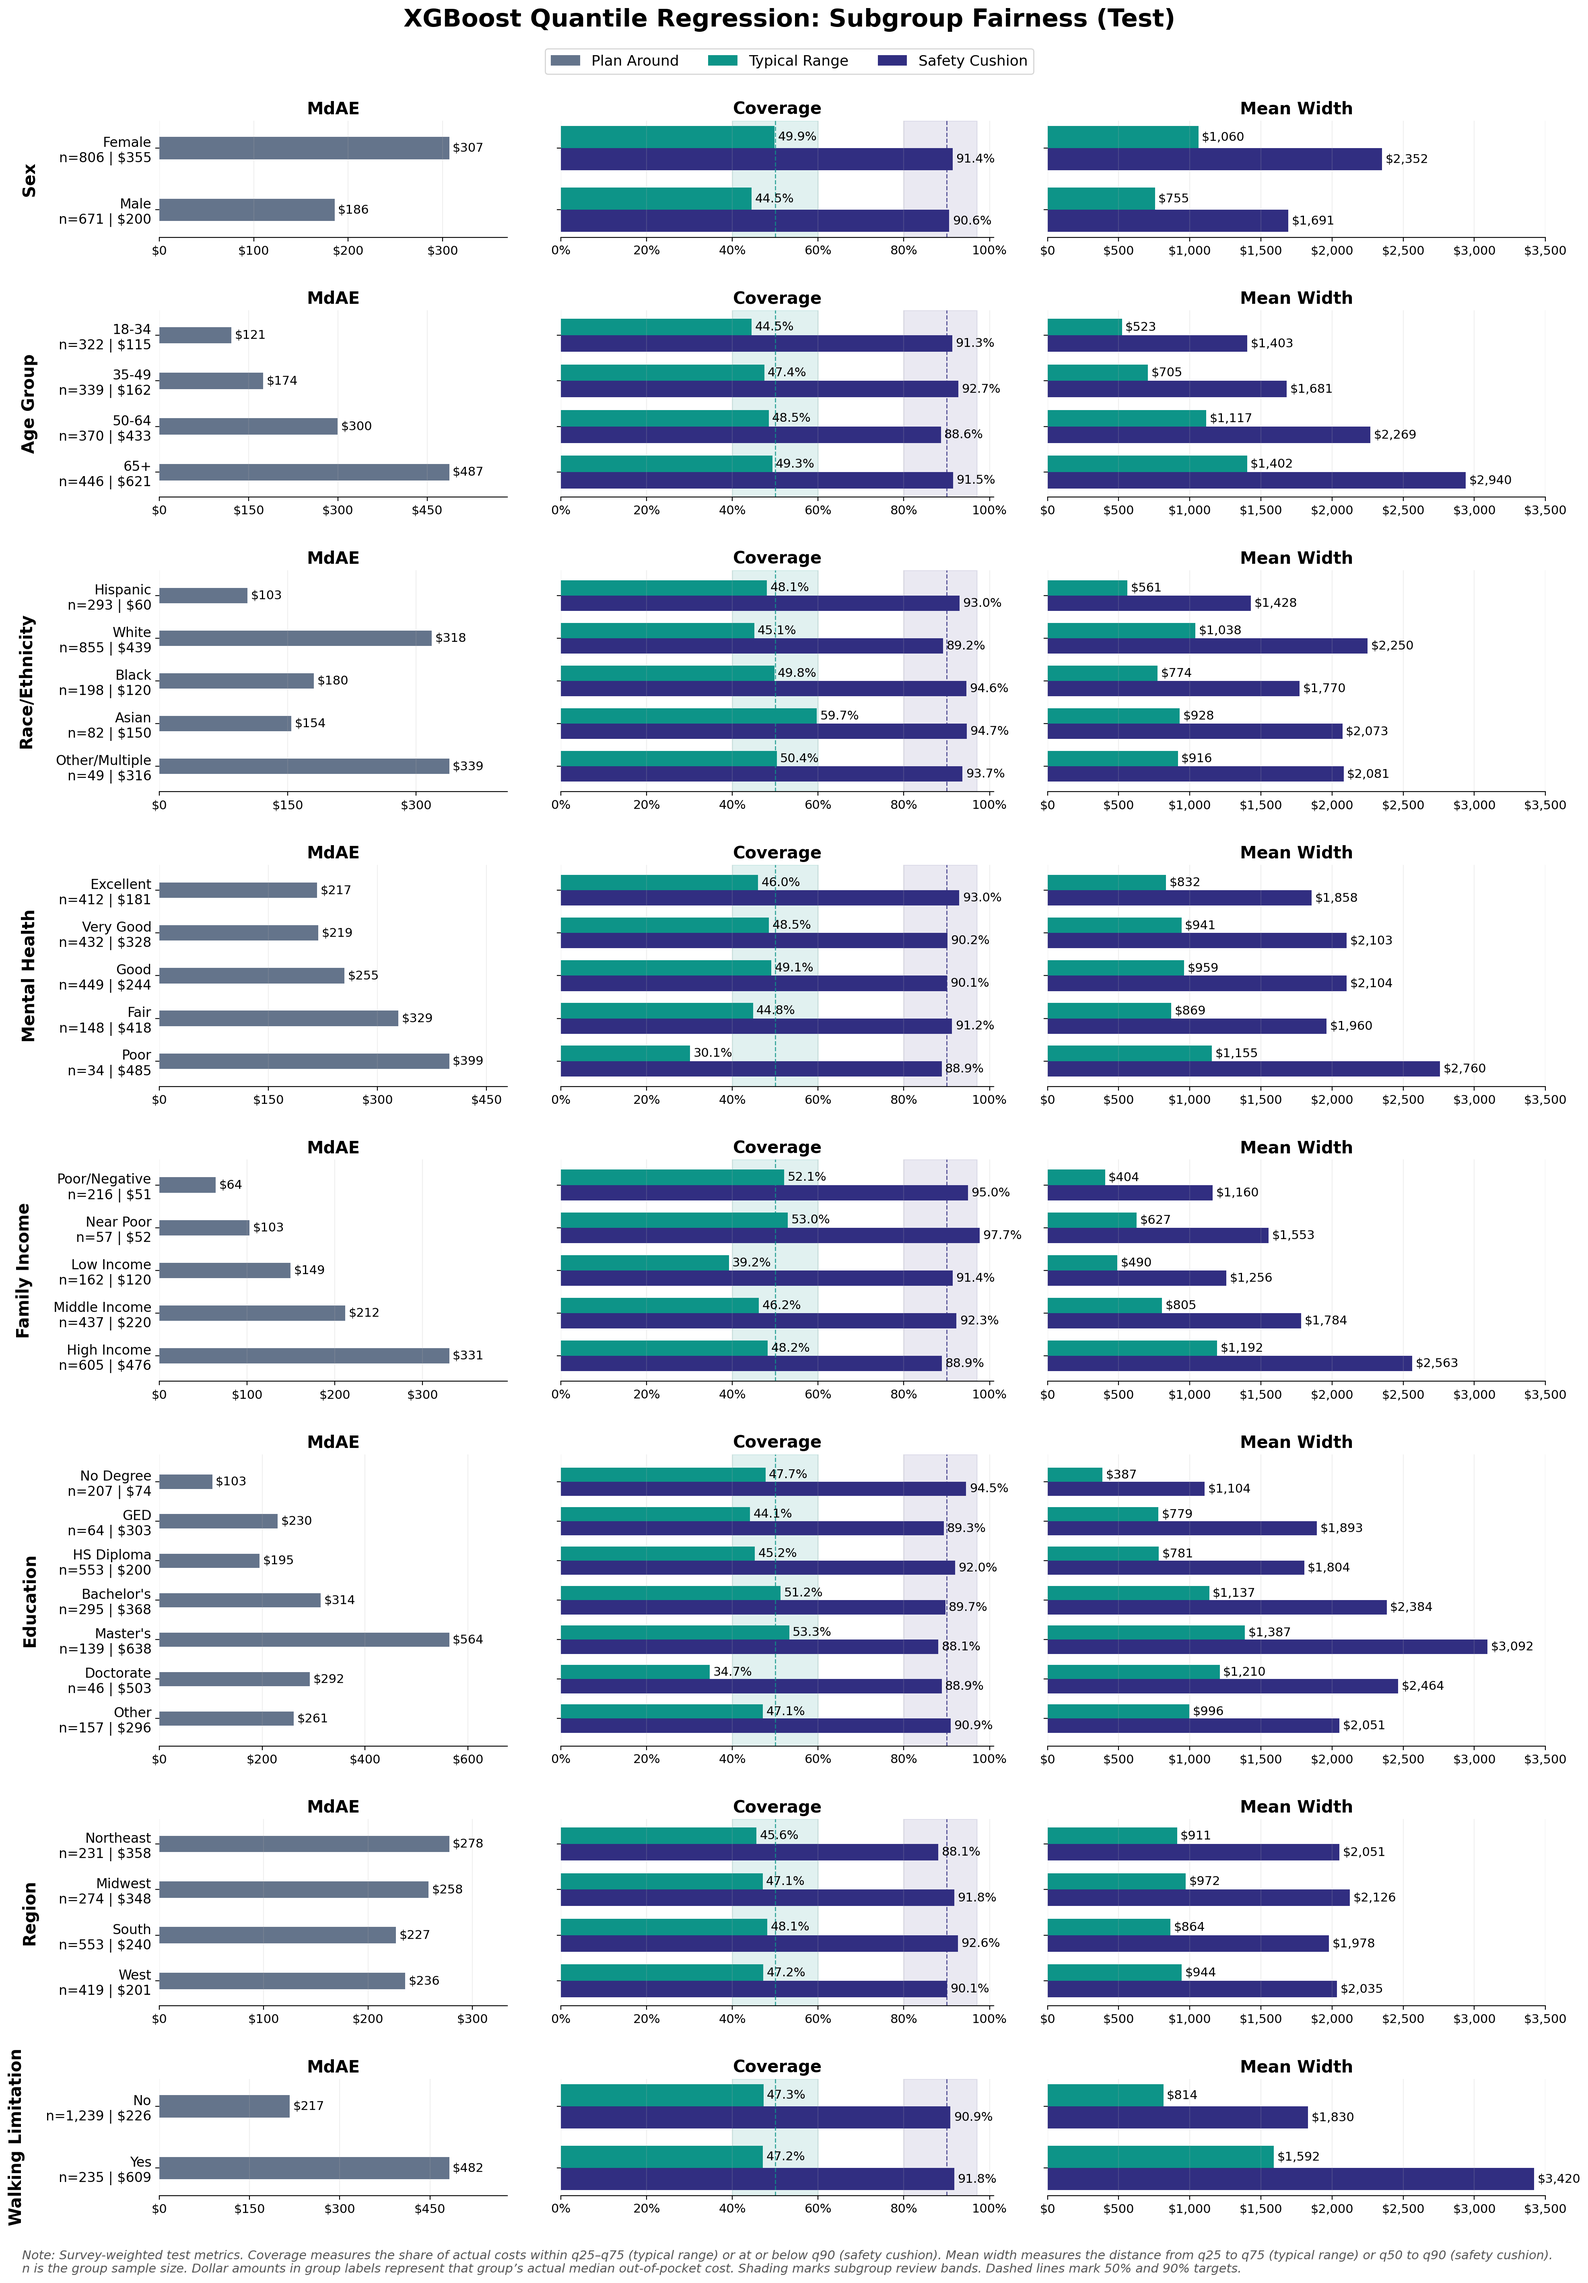
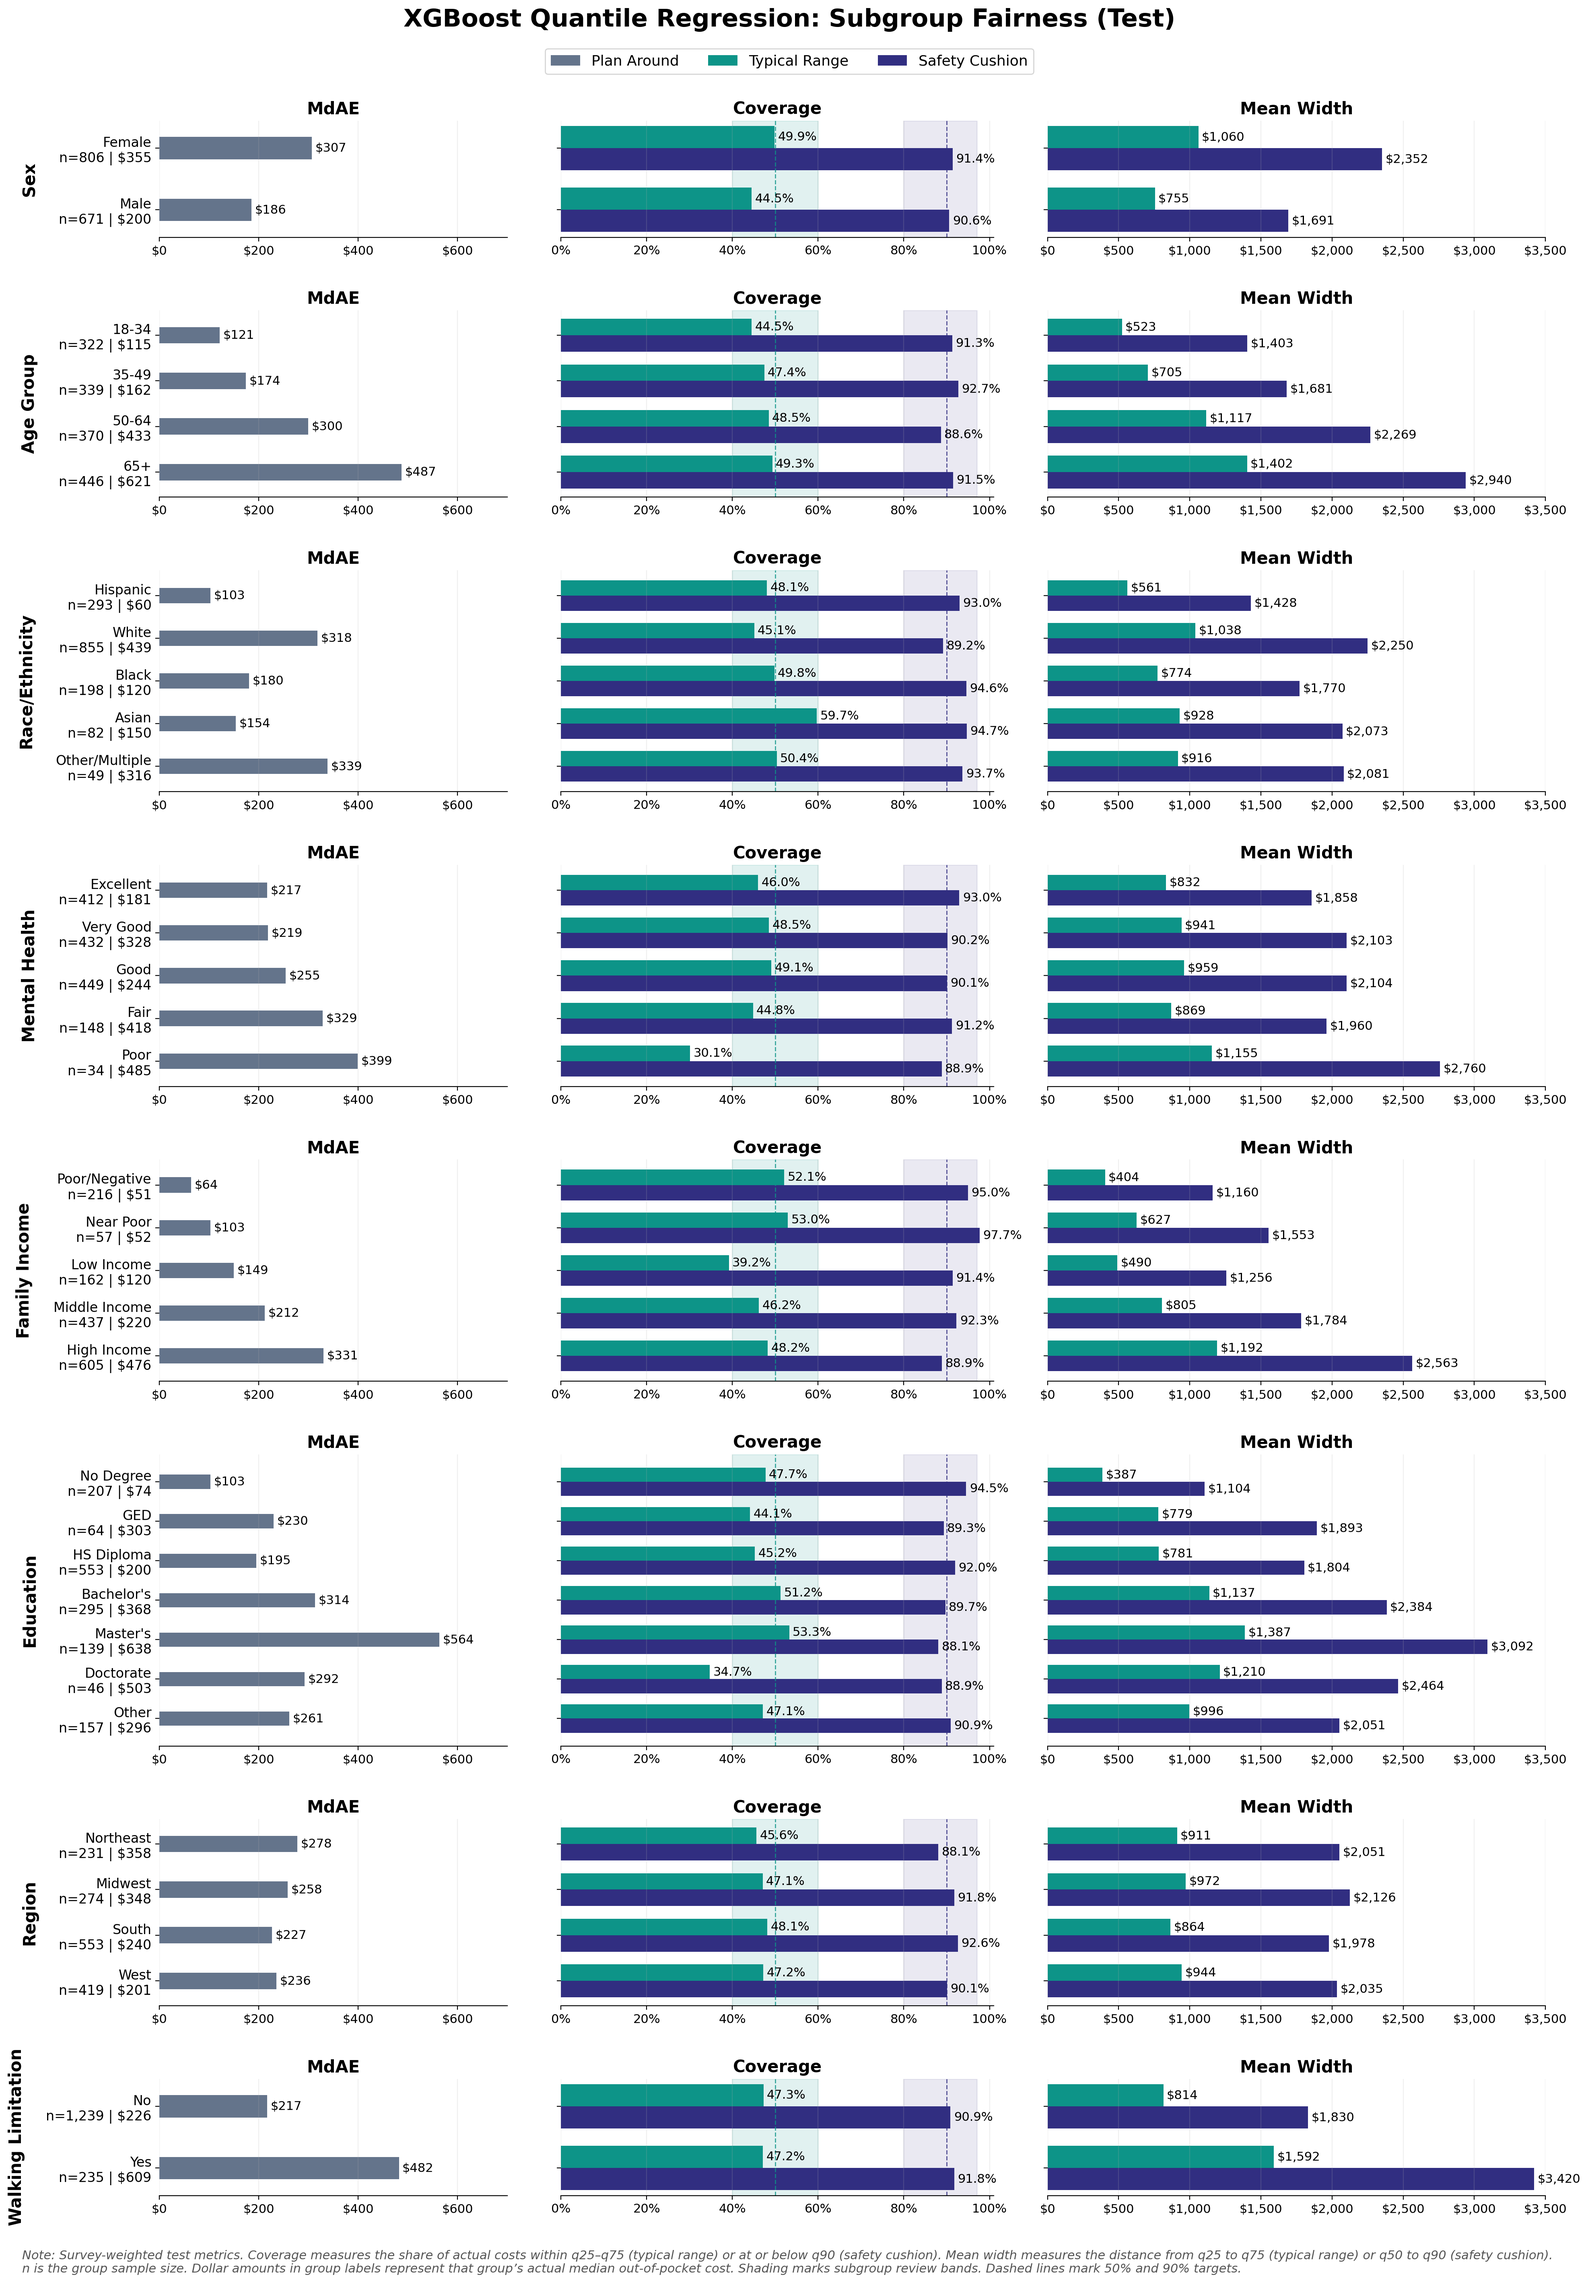
fix(eval): align final model subgroup plot MdAE axes

diff --git a/notebooks/2_modeling.py b/notebooks/2_modeling.py
@@ -2552,7 +2552,8 @@ def plot_quantile_subgroup_performance(
 
     Each subplot row is one stratification column. Coverage and mean width panels
     show the typical range and safety cushion. An optional first panel shows
-    plan-around median absolute error (q50). All metrics use survey weights.
+    plan-around median absolute error (q50), with a shared scale except for
+    actual cost tiers, which use a wider scale. All metrics use survey weights.
 
     Args:
         df (pd.DataFrame): Stratified error analysis dataframe of quantile regression.
@@ -2568,6 +2569,11 @@ def plot_quantile_subgroup_performance(
     legend_gap_inches = 0.15
     max_width = plot_data[["Typical Range Mean Width (q25–q75)", "Safety Cushion Mean Width (q50–q90)"]].max().max()
     width_axis_max = np.ceil(max_width / 500) * 500
+
+    if include_plan_around:
+        comparable_errors = plot_data.loc[plot_data["Column"] != "Actual Costs", "Plan Around MdAE (q50)"]
+        max_error = comparable_errors.max() if not comparable_errors.empty else plot_data["Plan Around MdAE (q50)"].max()
+        error_axis_max = max(100, np.ceil(max_error * 1.2 / 100) * 100)
 
     fig, axes = plt.subplots(
         n_rows,
@@ -2612,7 +2618,14 @@ def plot_quantile_subgroup_performance(
                 padding=3,
                 fontsize=11,
             )
-            error_ax.set_xlim(0, max(1, error_values.max() * 1.2))
+            if column_label == "Actual Costs":
+                error_ax.set_xlim(0, max(100, np.ceil(error_values.max() * 1.2 / 100) * 100))
+                error_ax.text(
+                    0.98, 0.98, "Wider scale", transform=error_ax.transAxes,
+                    ha="right", va="top", fontsize=11, color="#555555",
+                )
+            else:
+                error_ax.set_xlim(0, error_axis_max)
             error_ax.xaxis.set_major_locator(plt.MaxNLocator(nbins=4))
             error_ax.xaxis.set_major_formatter(currency_fmt)
             error_ax.set_title("MdAE", fontsize=15, fontweight="bold")
